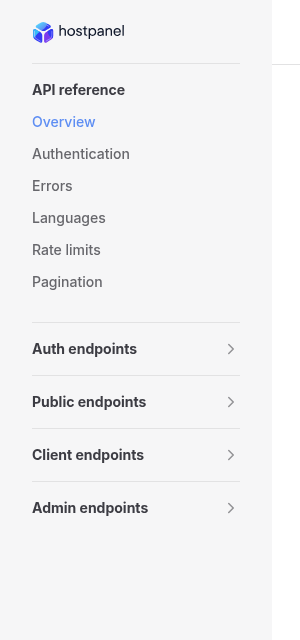
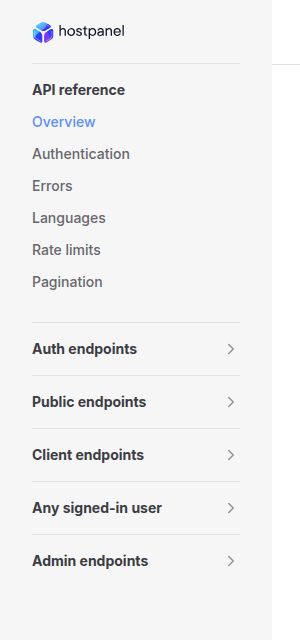
fix(api): tag the operations open to any signed-in user as Member in OpenAPI
Five operations that any signed-in user may call fell through to the Admin tag. They now carry a Member tag, the API reference lists them in their own group, and a test pins the five routes.

diff --git a/backend/tests/Innovayse.Hostpanel.Integration.Tests/Shared/SwaggerDocumentTests.cs b/backend/tests/Innovayse.Hostpanel.Integration.Tests/Shared/SwaggerDocumentTests.cs
@@ -37,6 +37,35 @@ public sealed class SwaggerDocumentTests(IntegrationTestFactory factory) : IClas
         tags.Should().Contain([SwaggerRegistration.AdminTag, SwaggerRegistration.PublicTag, SwaggerRegistration.AuthTag]);
     }
 
+    /// <summary>The operations any signed-in user may call carry the Member tag, not the Admin one.</summary>
+    /// <returns>A task that completes when the assertions have run.</returns>
+    [Fact]
+    public async Task Document_TagsOperationsOpenToAnySignedInUserAsMemberAsync()
+    {
+        var client = factory.CreateClient();
+
+        var response = await client.GetAsync(SwaggerRegistration.DocumentPath);
+
+        using var document = JsonDocument.Parse(await response.Content.ReadAsStringAsync());
+        var paths = document.RootElement.GetProperty("paths");
+        (string Path, string Method)[] memberOperations =
+        [
+            ("/api/me/2fa/setup", "post"),
+            ("/api/me/2fa/enable", "post"),
+            ("/api/me/2fa/disable", "post"),
+            ("/api/reference/countries", "get"),
+            ("/api/announcements/published", "get"),
+        ];
+
+        foreach (var (path, method) in memberOperations)
+        {
+            var tags = paths.GetProperty(path).GetProperty(method).GetProperty("tags").EnumerateArray()
+                .Select(tag => tag.GetString())
+                .ToList();
+            tags.Should().Equal([SwaggerRegistration.MemberTag], because: $"{method.ToUpperInvariant()} {path} is open to any signed-in user");
+        }
+    }
+
     /// <summary>Failures in the document are described by the one error body.</summary>
     /// <returns>A task that completes when the assertions have run.</returns>
     [Fact]

diff --git a/backend/src/Innovayse.Hostpanel.API/Extensions/SwaggerRegistration.cs b/backend/src/Innovayse.Hostpanel.API/Extensions/SwaggerRegistration.cs
@@ -35,6 +35,9 @@ public static class SwaggerRegistration
     /// <summary>The tag on operations a signed-in client user calls.</summary>
     public const string ClientTag = "Client";
 
+    /// <summary>The tag on operations any signed-in user may call, whatever their role.</summary>
+    public const string MemberTag = "Member";
+
     /// <summary>The tag on staff operations.</summary>
     public const string AdminTag = "Admin";
 
@@ -138,6 +141,11 @@ public static class SwaggerRegistration
         if (policies.Contains(Policies.Client))
         {
             return ClientTag;
+        }
+
+        if (policies.Contains(Policies.Member))
+        {
+            return MemberTag;
         }
 
         return AdminTag;

diff --git a/docs/api-reference/index.md b/docs/api-reference/index.md
@@ -14,12 +14,13 @@ The examples use <code>https://panel.example.com</code> for the client portal ho
 
 ## Audiences
 
-Each endpoint belongs to one of four audiences. The audience is the tag the API puts on the operation, and each endpoint page states what a call needs under **Access**.
+Each endpoint belongs to one of five audiences. The audience is the tag the API puts on the operation, and each endpoint page states what a call needs under **Access**.
 
 <SettingTable :settings="[
   { name: 'Auth', type: '', default: 'None', description: 'Sign-in, session and account routes under api/auth. Most take no credential. The routes that let people sign in or register with a password exist only when the install authenticates its own users.' },
-  { name: 'Public', type: '', default: 'None', description: 'The storefront and probe routes that need no sign-in: the product catalog, domain search, the contact form, published content and the health probe. It also lists the few reference-data routes that any signed-in user may call.' },
+  { name: 'Public', type: '', default: 'None', description: 'The storefront and probe routes that need no sign-in: the product catalog, domain search, the contact form, published content and the health probe.' },
   { name: 'Client', type: '', default: 'None', description: 'Routes a signed-in client user calls on their own account: api/me/*, api/clients/me and the client plugin routes. Some also need a client permission.' },
+  { name: 'Member', type: '', default: 'None', description: 'The few routes any signed-in user may call, whatever their role: the two-factor setup of the own account, the country list and the published announcements. It is listed in the sidebar as Any signed-in user.' },
   { name: 'Admin', type: '', default: 'None', description: 'Staff routes: api/admin/* and the shared routes whose actions are admin only, such as api/clients, api/billing, api/orders, api/services, api/domains and api/tickets.' },
 ]" />
 
@@ -58,6 +59,6 @@ Each endpoint page has the description, parameters and responses on the left, an
 
 <Screenshot src="/screenshots/api-endpoint-dark.png" alt="An endpoint page with the examples column, in the dark theme" />
 
-The sidebar lists the endpoints in four audience groups, and each group is split by area.
+The sidebar lists the endpoints in five audience groups, and each group is split by area.
 
-<Screenshot src="/screenshots/api-sidebar.png" alt="The sidebar of the API reference with the four audience groups" />
+<Screenshot src="/screenshots/api-sidebar.png" alt="The sidebar of the API reference with the five audience groups" />
